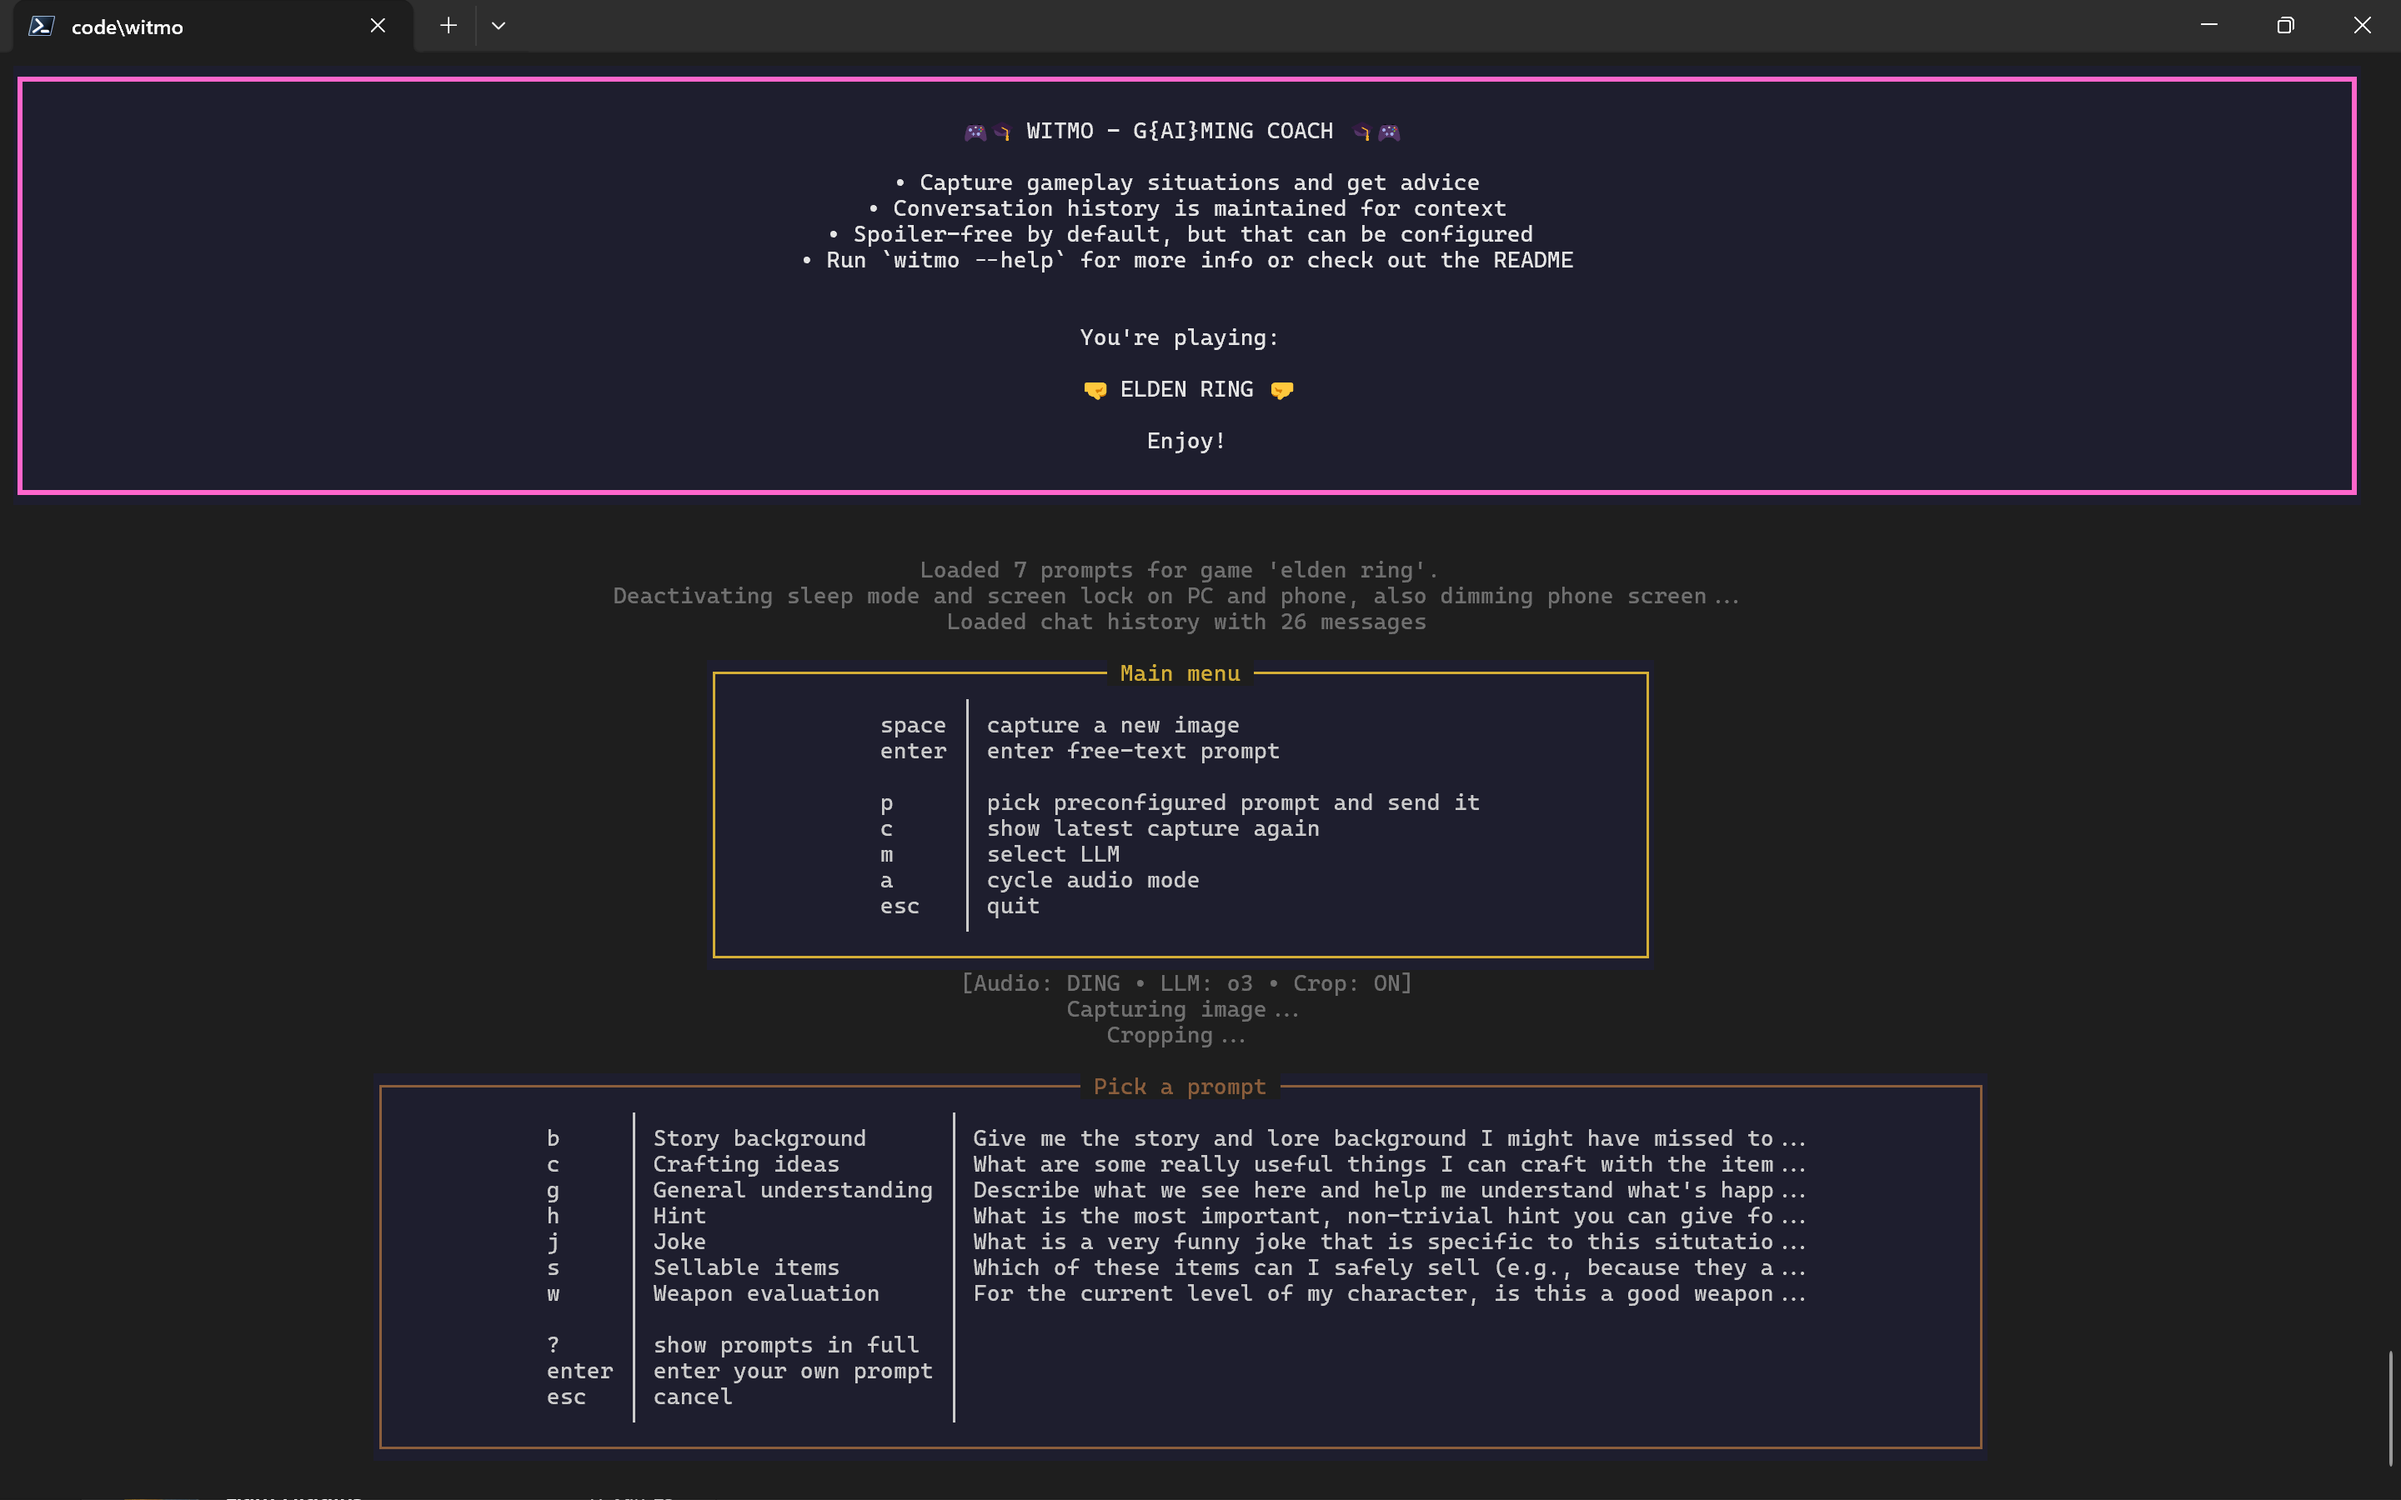
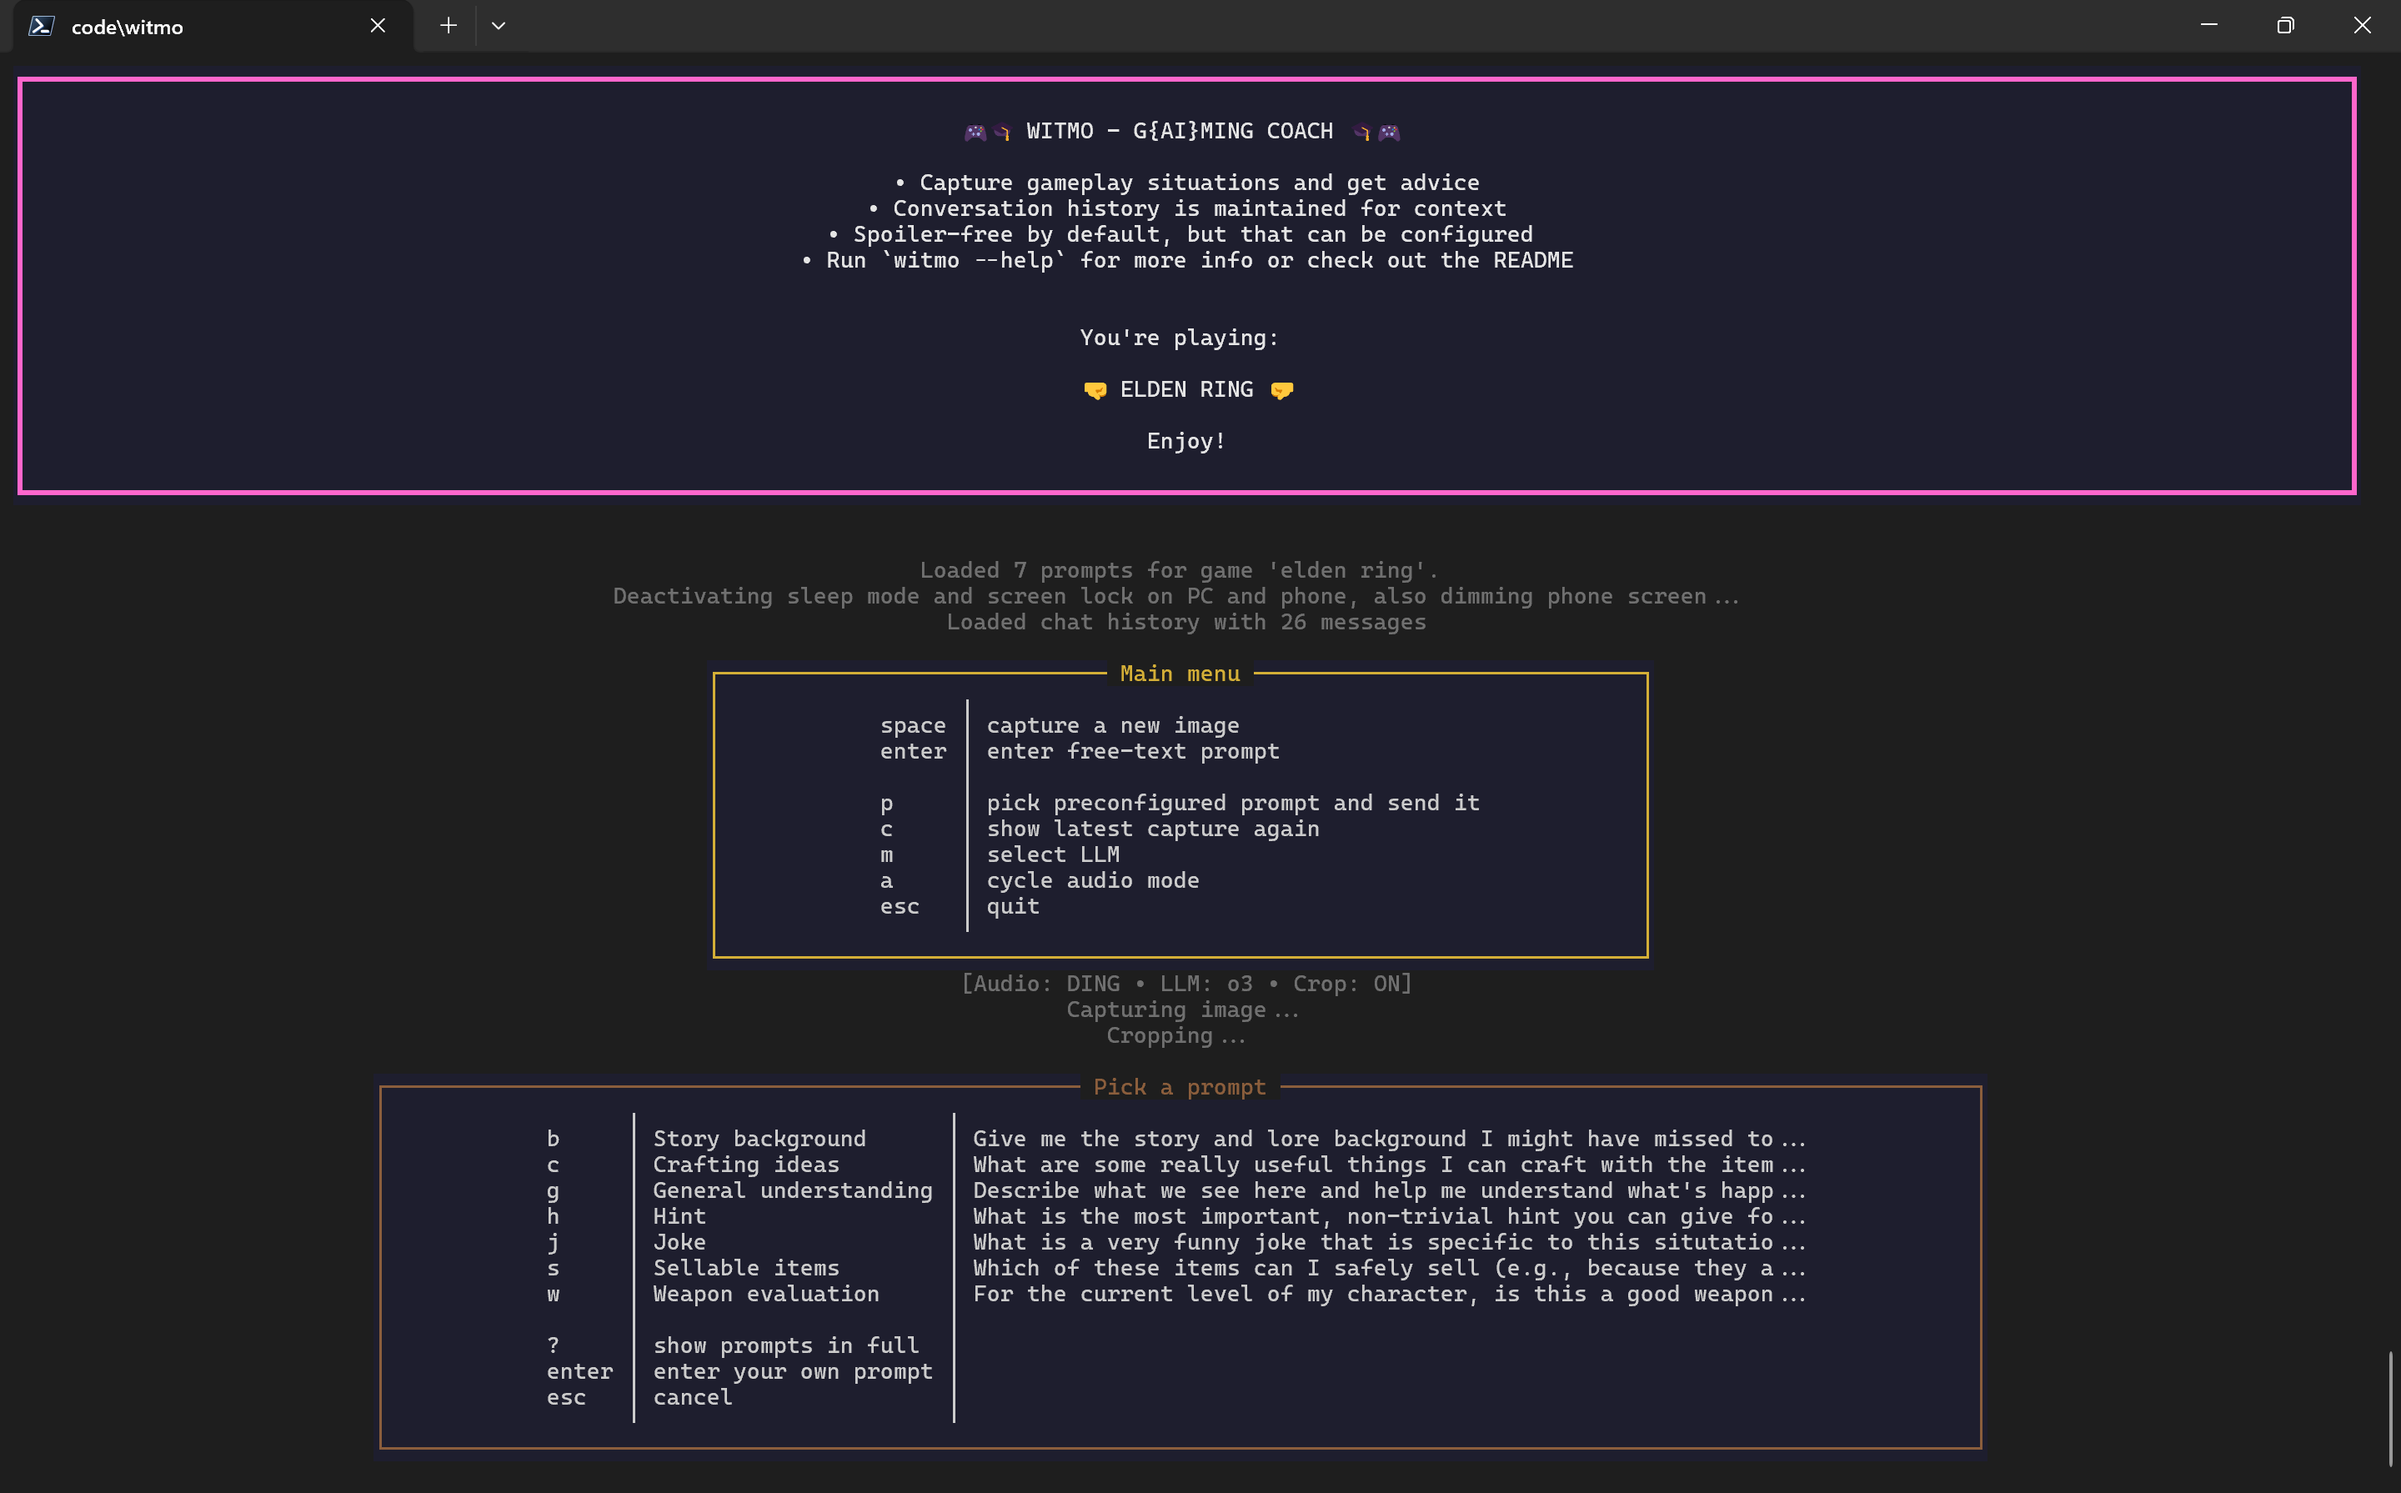
Fix screenshot, remove divider

Changed region(s): [[0.1562, 0.3685, 0.8125, 0.9827], [0.0312, 0.215, 0.9688, 0.3378], [0.3438, 0.1228, 0.6562, 0.1843]]

diff --git a/README.md b/README.md
@@ -9,8 +9,6 @@ buddy.
 solid #333; padding:10px; border-radius:4px;">
 
 
----
-
 ## ✨ Key features
 
 - 📸 **Screen capture**: Connects to your Android phone via USB to capture gameplay
